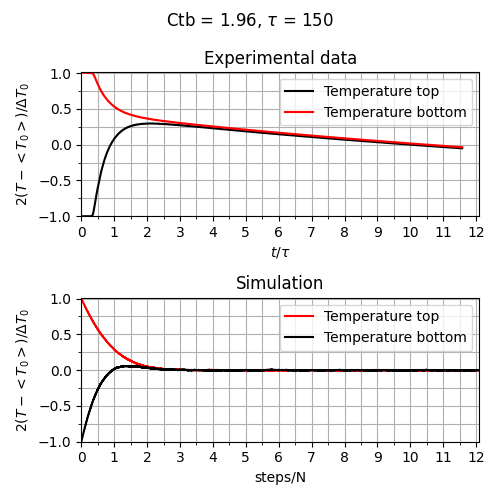
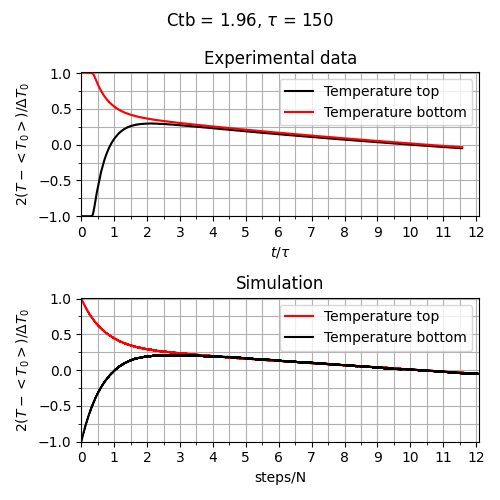
working heat loss to environment

Changed region(s): [[0.18, 0.63, 0.96, 0.81]]

diff --git a/Obligs/Oblig 1/diffusion_with_loss.py b/Obligs/Oblig 1/diffusion_with_loss.py
@@ -3,9 +3,9 @@ import numpy as np
 
 # Simulation parameters
 Ctb = 1.96  # Heat capacity ratio top to bottom
-N = 80_000  # Number of heat packets
+Cr = 1/25  # Heat loss coefficient
+N = 100_000  # Number of heat packets
 nstep = 15 * N  # Number of steps in simulation
-tau_sim = N
 
 # Data plotting parameters
 tau = 150  # Guessing the characteristic time
@@ -30,12 +30,16 @@ for i in range(1, nstep):
         Tt[i] = Tt[i - 1] + 1 / N
         Tb[i] = Tb[i - 1] - Ctb / N
 
-    # Heat loss to air
-    loss = np.exp(-i / (N * tau_sim))
-    # print(i/N, loss, Tt[i], Tb[i])
-    Tt[i] *= loss
-    Tb[i] *= loss
-    # print(i/N, loss, Tt[i], Tb[i])
+    # Randomized heat loss to air in the same fashion as the above diffusion
+    rt = 4 * np.random.rand(1, 1) - 2  # Random number between 2 and -2
+    rb = 4 * np.random.rand(1, 1) - 2
+    DTt = Tt[i] - Tr  # Temperature difference top to room
+    DTb = Tb[i] - Tr  # Temperature difference bot to room
+    if rt < DTt:
+        # Subtract one heat quanta multiplied by heat loss coefficient
+        Tt[i] -= Cr / N
+    if rb < DTb:
+        Tb[i] -= Cr / N
 
 ### EXPERIMENTAL DATA
 D = np.loadtxt('metalblocks_lecture.txt', usecols=[0, 1, 2], unpack=True)
